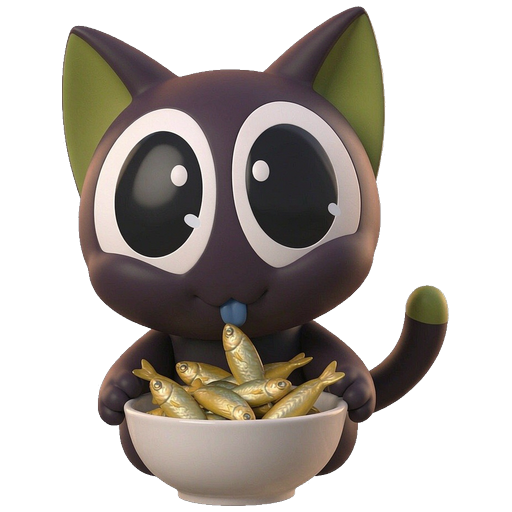
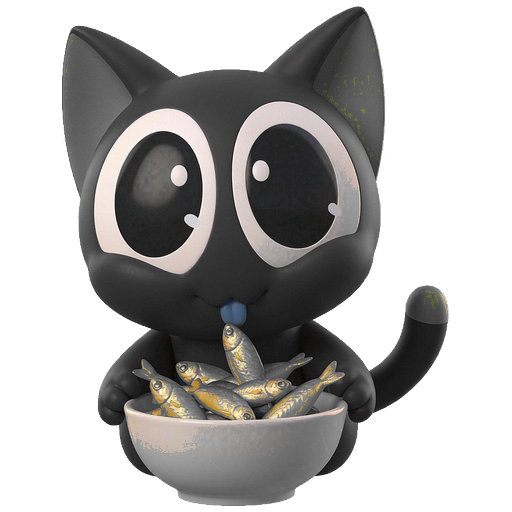
feat(pet): 小黑体色转纯黑 + 尾巴骨骼动画 + 散步动作
- 五图定向调色: 巧克力紫棕→纯黑(保阴影渐变), 保护奶白眼圈/绿耳/蓝嘴/彩纸
- 真·骨骼动画: 尾巴从 idle 基座切割成独立骨层(cat-tail.png), 关节羽化衔接,
  transform-origin 65.2%/83% 关节旋转 ±5° 摆动; 情绪图自带尾巴时自动淡出骨层
- 散步动作: 15-33s 随机溜达, 方向翻转(scaleX) + 步行摆动 + 位移过渡,
  情绪切换自动收步; reduced-motion 全部禁用
- 实测: 尾骨加载/显隐/回归/体色RGB(26,26,26) 全 PASS, pageerror 0,
  self-check 11/11 PASS

diff --git a/engine/pet-companion.js b/engine/pet-companion.js
@@ -19,7 +19,7 @@ const PetCompanion = (() => {
   // 五只 3D 伙伴注册表：每只 5 个情绪状态
   const PET_REGISTRY = {
     dragon: { name: '小星', idle: 'dragon-idle.png', celebrate: 'dragon-celebrate.png', comfort: 'dragon-comfort.png', eat: 'dragon-eat.png', sleep: 'dragon-sleep.png' },
-    cat:    { name: '小黑', idle: 'cat-idle.png',    celebrate: 'cat-celebrate.png',    comfort: 'cat-comfort.png',    eat: 'cat-eat.png',    sleep: 'cat-sleep.png' },
+    cat:    { name: '小黑', idle: 'cat-idle.png',    celebrate: 'cat-celebrate.png',    comfort: 'cat-comfort.png',    eat: 'cat-eat.png',    sleep: 'cat-sleep.png', rigTail: 'cat-tail.png', rigPivot: '65.2% 83%' },
     bunny:  { name: '量子', idle: 'bunny-idle.png',  celebrate: 'bunny-celebrate.png',  comfort: 'bunny-comfort.png',  eat: 'bunny-eat.png',  sleep: 'bunny-sleep.png' },
     fox:    { name: '银宝', idle: 'fox-idle.png',    celebrate: 'fox-celebrate.png',    comfort: 'fox-comfort.png',    eat: 'fox-eat.png',    sleep: 'fox-sleep.png' },
     whale:  { name: '深海', idle: 'whale-idle.png',  celebrate: 'whale-celebrate.png',  comfort: 'whale-comfort.png',  eat: 'whale-eat.png',  sleep: 'whale-sleep.png' }
@@ -85,7 +85,7 @@ const PetCompanion = (() => {
 .pc-host{position:relative;width:100%;height:100%;min-height:280px;}
 .pc-stage-3d{position:relative;width:100%;height:100%;display:flex;align-items:center;justify-content:center;perspective:720px;}
 .pc-parallax{position:relative;width:80%;height:80%;transform-style:preserve-3d;transition:transform .25s ease-out;will-change:transform;}
-.pc-pet-wrap{position:relative;width:100%;height:100%;transform:scale(var(--pc-scale,1));transform-origin:50% 92%;transition:transform .55s cubic-bezier(.34,1.4,.64,1);}
+.pc-pet-wrap{position:relative;width:100%;height:100%;transform:translateX(var(--pc-stroll-x,0px)) scale(var(--pc-scale,1));transform-origin:50% 92%;transition:transform .55s cubic-bezier(.34,1.4,.64,1);}
 .pc-pet-wrap.pc-enter{animation:pc-enter .9s cubic-bezier(.34,1.56,.64,1) both;}
 .pc-breath{position:relative;width:100%;height:100%;transform-origin:50% 100%;}
 .pc-imgbox{position:relative;width:100%;height:100%;}
@@ -117,9 +117,18 @@ const PetCompanion = (() => {
 @keyframes pc-sway{0%,100%{transform:rotate(-4deg) translateY(3%);}50%{transform:rotate(4deg) translateY(3%);}}
 @keyframes pc-zzz{0%{transform:translateY(0) scale(.8);opacity:0;}30%{opacity:.95;}100%{transform:translateY(-22px) scale(1.1);opacity:0;}}
 
+/* 骨骼动画：尾巴关节旋转层（仅 idle 挂载，情绪图自带尾巴时隐藏） */
+.pc-rig-tail{z-index:2;will-change:transform;}
+.pc-stage-3d[data-mood="idle"] .pc-rig-tail{animation:pc-tail-sway 3.6s ease-in-out infinite;}
+@keyframes pc-tail-sway{0%,100%{transform:rotate(-5deg);}50%{transform:rotate(5deg);}}
+/* 散步动作：步行摆动（叠加在 .pc-breath 上，须晚于 mood 规则以覆盖） */
+.pc-breath.pc-walking{animation:pc-walk-bob .62s ease-in-out infinite!important;}
+@keyframes pc-walk-bob{0%,100%{transform:translateY(0) rotate(-2deg);}25%{transform:translateY(-4.5%) rotate(0deg);}50%{transform:translateY(0) rotate(2deg);}75%{transform:translateY(-4.5%) rotate(0deg);}}
+
 /* 无障碍：尊重「减少动态效果」 */
 .pc-reduced .pc-breath,.pc-reduced .pc-shadow,.pc-reduced .pc-zzz,.pc-reduced .pc-fallback-circle{animation:none!important;}
 .pc-reduced .pc-parallax{transition:none!important;}
+.pc-reduced .pc-rig-tail{animation:none!important;}
 `;
     const style = document.createElement('style');
     style.id = 'pc-styles';
@@ -179,7 +188,7 @@ const PetCompanion = (() => {
 
     target.appendChild(stage);
 
-    dom = { target, stage, parallax, wrap, breath, imgBox, fallback, shadow, badge, zzz, tip, currentImg: null };
+    dom = { target, stage, parallax, wrap, breath, imgBox, fallback, shadow, badge, zzz, tip, currentImg: null, rigTail: null };
   }
 
   // ================= 精灵切换（交叉淡入，无硬切） =================
@@ -230,6 +239,7 @@ const PetCompanion = (() => {
       next.style.opacity = '1';
       dom.currentImg = next;
       dom.fallback.style.display = 'none';
+      syncRigTail(mood);
     };
     next.src = url;
     dom.imgBox.appendChild(next);
@@ -237,6 +247,63 @@ const PetCompanion = (() => {
     setTimeout(() => {
       if (!ok && next.parentNode && next.naturalWidth === 0) showFallback(next);
     }, 5000);
+  }
+
+  // ================= 骨骼动画层：尾巴（仅 idle；情绪图自带尾巴时淡出） =================
+  function syncRigTail(mood) {
+    if (!dom.imgBox) return;
+    const pet = PET_REGISTRY[state.petId];
+    if (pet && pet.rigTail && mood === 'idle') {
+      if (dom.rigTail && dom.rigTail._mood === 'idle') return;
+      if (dom.rigTail && dom.rigTail.parentNode) dom.rigTail.parentNode.removeChild(dom.rigTail);
+      const t = document.createElement('img');
+      t.className = 'pc-sprite pc-rig-tail';
+      t.alt = '';
+      t.draggable = false;
+      t.style.transformOrigin = pet.rigPivot || '65% 83%';
+      t.style.opacity = '0';
+      t.onload = () => { t.style.opacity = '1'; };
+      t.onerror = () => { if (t.parentNode) t.parentNode.removeChild(t); };
+      t._mood = 'idle';
+      t.src = (cfg.assetsRoot || DEFAULT_ASSET_ROOT) + '/' + pet.rigTail;
+      dom.imgBox.appendChild(t);
+      dom.rigTail = t;
+    } else if (dom.rigTail) {
+      const t = dom.rigTail;
+      dom.rigTail = null;
+      t.style.opacity = '0';
+      setTimeout(() => { if (t.parentNode) t.parentNode.removeChild(t); }, 360);
+    }
+  }
+
+  // ================= 散步动作（随机溜达，方向翻转 + 步行摆动） =================
+  let walkTimer = null;
+  let strolling = false;
+  function scheduleStroll() {
+    if (walkTimer) clearTimeout(walkTimer);
+    if (reduced) return;
+    walkTimer = setTimeout(stroll, 15000 + Math.random() * 18000);
+  }
+  function stroll() {
+    walkTimer = null;
+    if (document.hidden || state.mood !== 'idle' || !dom.stage || !dom.imgBox) { scheduleStroll(); return; }
+    const dir = Math.random() < 0.5 ? -1 : 1;
+    const dist = 34 + Math.random() * 42;
+    strolling = true;
+    dom.imgBox.style.transition = 'transform .3s ease';
+    dom.imgBox.style.transform = dir < 0 ? 'scaleX(-1)' : 'scaleX(1)';
+    dom.wrap.style.transition = 'transform 2.4s ease-in-out';
+    dom.wrap.style.setProperty('--pc-stroll-x', (dir * dist) + 'px');
+    dom.breath.classList.add('pc-walking');
+    setTimeout(endStroll, 2600 + Math.random() * 1800);
+  }
+  function endStroll() {
+    if (!strolling) return;
+    strolling = false;
+    if (dom.imgBox) dom.imgBox.style.transform = 'scaleX(1)';
+    if (dom.wrap) { dom.wrap.style.transition = ''; dom.wrap.style.setProperty('--pc-stroll-x', '0px'); }
+    if (dom.breath) dom.breath.classList.remove('pc-walking');
+    scheduleStroll();
   }
 
   // ================= 徽章 / 体型 =================
@@ -272,6 +339,7 @@ const PetCompanion = (() => {
       if (!opts.silent && typeof cfg.onMoodChange === 'function') cfg.onMoodChange(mood);
       return;
     }
+    endStroll();
     swapSprite(mood);
     updateZzz();
     restartMood();
@@ -356,6 +424,7 @@ const PetCompanion = (() => {
     applyMood(state.mood, { silent: true });
     bindEvents();
     resetIdle();
+    scheduleStroll();
     return api;
   }
 

diff --git a/scripts/test-pet-rig.js b/scripts/test-pet-rig.js
@@ -1,0 +1,67 @@
+// 小黑骨骼动画专项实测：尾骨层挂载/情绪切换/散步动作
+const { chromium } = require('playwright-core');
+(async () => {
+  const b = await chromium.launch({ channel: 'msedge', headless: true });
+  const p = await b.newPage({ viewport: { width: 1200, height: 900 } });
+  const errs = [];
+  p.on('pageerror', e => errs.push(e.message));
+  p.on('console', m => { if (m.type() === 'error') errs.push('console:' + m.text()); });
+
+  await p.goto('http://127.0.0.1:8146/index.html', { waitUntil: 'networkidle' });
+  await p.waitForTimeout(2500);
+
+  const r1 = await p.evaluate(async () => {
+    const out = {};
+    // 直接挂载到独立容器测 rig（不依赖页面切板块）
+    if (!window.__pcTestBox) {
+      const d = document.createElement('div');
+      d.id = '__pcTestBox';
+      d.style.cssText = 'position:fixed;left:0;top:0;width:280px;height:280px;z-index:9999;background:#0F172A';
+      document.body.appendChild(d);
+      window.PetCompanion.mount({ target: d, assetsRoot: 'assets/pet3d' });
+    }
+    window.PetCompanion.setPet('cat');
+    window.PetCompanion.setMood('idle');
+    await new Promise(r => setTimeout(r, 1500));
+    const tail = document.querySelector('.pc-rig-tail');
+    const base = document.querySelector('.pc-imgbox .pc-sprite:not(.pc-rig-tail)');
+    out.tailLoaded = !!(tail && tail.complete && tail.naturalWidth === 512);
+    out.tailVisible = !!(tail && parseFloat(tail.style.opacity) === 1);
+    out.tailOrigin = tail ? tail.style.transformOrigin : 'none';
+    out.tailAnim = tail ? getComputedStyle(tail).animationName : 'none';
+    out.baseLoaded = !!(base && base.complete && base.naturalWidth > 0);
+    out.baseIsTailless = !!(base && base.src.includes('cat-idle.png'));
+    // 切到 celebrate：尾骨层应淡出
+    window.PetCompanion.setMood('celebrate');
+    await new Promise(r => setTimeout(r, 800));
+    out.celebrateBase = !!(document.querySelector('.pc-imgbox .pc-sprite:not(.pc-rig-tail)') || {}).src;
+    const t2 = document.querySelector('.pc-rig-tail');
+    out.tailHiddenOnCelebrate = !t2 || t2.style.opacity === '0' || !t2.parentNode;
+    // 回 idle：尾骨层回归
+    window.PetCompanion.setMood('idle');
+    await new Promise(r => setTimeout(r, 1200));
+    out.tailBackOnIdle = !!document.querySelector('.pc-rig-tail');
+    // 体色验证：idle 基座采样应为近黑
+    const cv = document.createElement('canvas');
+    const img = base;
+    cv.width = img.naturalWidth; cv.height = img.naturalHeight;
+    const ctx = cv.getContext('2d');
+    ctx.drawImage(img, 0, 0);
+    const px = ctx.getImageData(256, 300, 1, 1).data; // 身体区域
+    out.bodyRGB = [px[0], px[1], px[2]];
+    return out;
+  });
+  console.log(JSON.stringify(r1, null, 1));
+
+  // 散步：压缩调度等待不可行，直接调内部——通过触发可见性不可靠；改为验证 CSS/类存在
+  const r2 = await p.evaluate(() => {
+    const wrap = document.querySelector('.pc-pet-wrap');
+    return { strollVarSupported: wrap && getComputedStyle(wrap).getPropertyValue('--pc-stroll-x') !== undefined };
+  });
+  console.log(JSON.stringify(r2));
+  console.log('pageerror:', errs.length, errs.slice(0, 3));
+  await p.screenshot({ path: 'scripts/_rig_test.png' });
+  await b.close();
+  const pass = r1.tailLoaded && r1.tailVisible && r1.baseLoaded && r1.tailHiddenOnCelebrate && r1.tailBackOnIdle && errs.length === 0;
+  console.log(pass ? 'RIG_TEST_PASS' : 'RIG_TEST_FAIL');
+})().catch(e => { console.error('FATAL', e); process.exit(1); });
